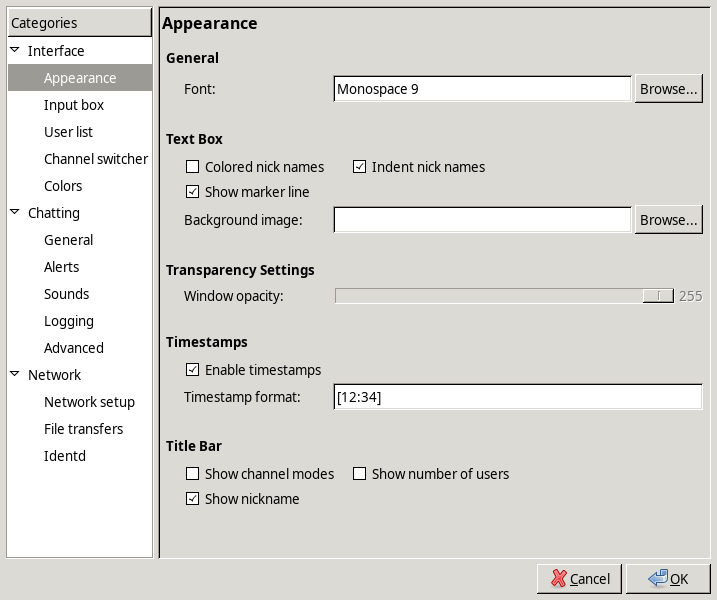
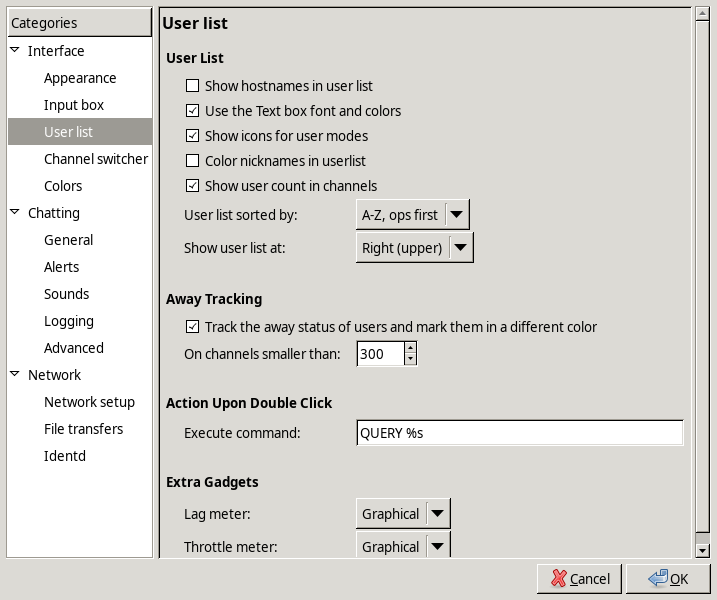
ux reference: fix duplicate preferences shots
down-arrow never reached the category tree, so all 16 shots were the
appearance page. click each row instead and keep a shot only when the
page changes. now 13 distinct pages, matching the 13 categories.

diff --git a/tests/ux/capture.py b/tests/ux/capture.py
@@ -256,7 +256,6 @@ def main():
     # dialogs opened through their commands / menus
     dialogs = [
         ("network-list", lambda: key("ctrl+s")),
-        ("preferences", lambda: menu_pick("e", 1)),
         ("join-channel", lambda: menu_pick("s", 3)),
         ("channel-list", lambda: menu_pick("s", 4)),
         ("auto-replace", lambda: menu_pick("e", 2)),
@@ -290,18 +289,34 @@ def main():
                 key("Escape", delay=0.4)
                 focus_main()
 
-    # preferences pages: walk the category tree with Down
+    # preferences pages: click into the category tree, then walk it with Down.
+    # parent rows (Interface/Chatting/Network) can't be selected, so only keep
+    # a shot when the window content actually changed.
     if want("preferences-pages"):
+        import hashlib
         before = set(windows())
         menu_pick("e", 1)
         time.sleep(1)
         prefs = new_toplevels(before)
         if prefs:
             pw = prefs[-1]
-            # focus is on the category tree, first row selected
-            for i in range(16):
-                shot(f"preferences-{i:02d}", pw)
-                key("Down", delay=0.4)
+            # click each row of the category tree (rows ~27px apart starting at y=50
+            # at 96 dpi); parent rows don't change the page, so dedupe by content
+            seen = set()
+            page = 0
+            for row in range(18):
+                xdo("mousemove", "--window", pw, "80", str(50 + row * 27))
+                xdo("click", "1")
+                time.sleep(0.5)
+                tmpf = os.path.join(tmp, "pref.png")
+                subprocess.run(["import", "-window", pw, tmpf], env=env,
+                               stderr=subprocess.DEVNULL)
+                h = hashlib.md5(open(tmpf, "rb").read()).hexdigest()
+                if h not in seen:
+                    seen.add(h)
+                    shutil.copy(tmpf, os.path.join(args.out, f"preferences-{page:02d}.png"))
+                    print("shot", f"preferences-{page:02d}")
+                    page += 1
         close_new(before)
         focus_main()
 

diff --git a/docs/ux-reference/README.md b/docs/ux-reference/README.md
@@ -46,7 +46,7 @@ Keys
 - [ ] The Keyboard Shortcuts editor reads and writes the same `keybindings.conf`.
 
 Dialogs
-- [ ] Each dialog in `gtk2/` has the same widgets, labels, order, buttons and default button: network list and edit, preferences (all 16 pages), join, channel list, ban list, DCC, friends, ignore, plugins, raw log, URL grabber, char chart, the editors (auto replace, CTCP, dialog buttons, text events, URL handlers, user commands, userlist buttons/popup), about, file choosers.
+- [ ] Each dialog in `gtk2/` has the same widgets, labels, order, buttons and default button: network list and edit, preferences (all 13 pages, `preferences-00..12.png`), join, channel list, ban list, DCC, friends, ignore, plugins, raw log, URL grabber, char chart, the editors (auto replace, CTCP, dialog buttons, text events, URL handlers, user commands, userlist buttons/popup), about, file choosers.
 - [ ] The network list opens at first start, and "Skip network list on startup" works.
 
 Behaviour
